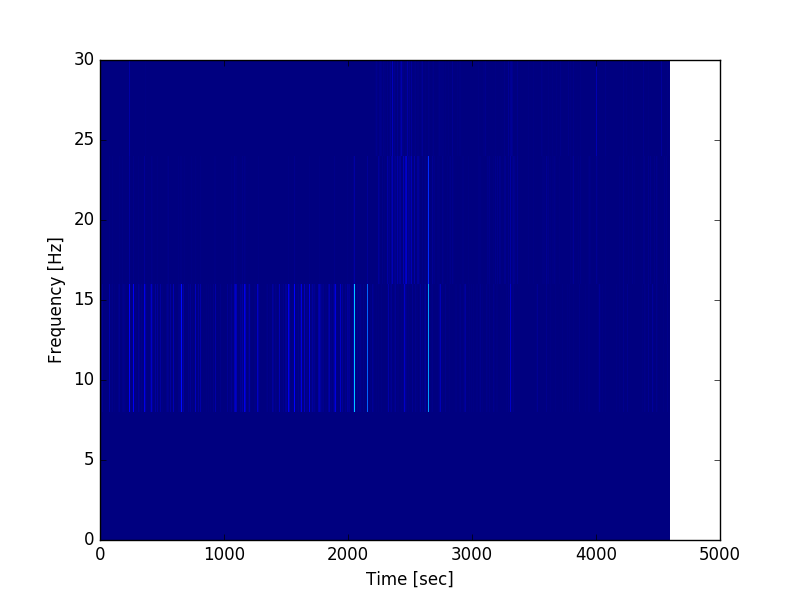
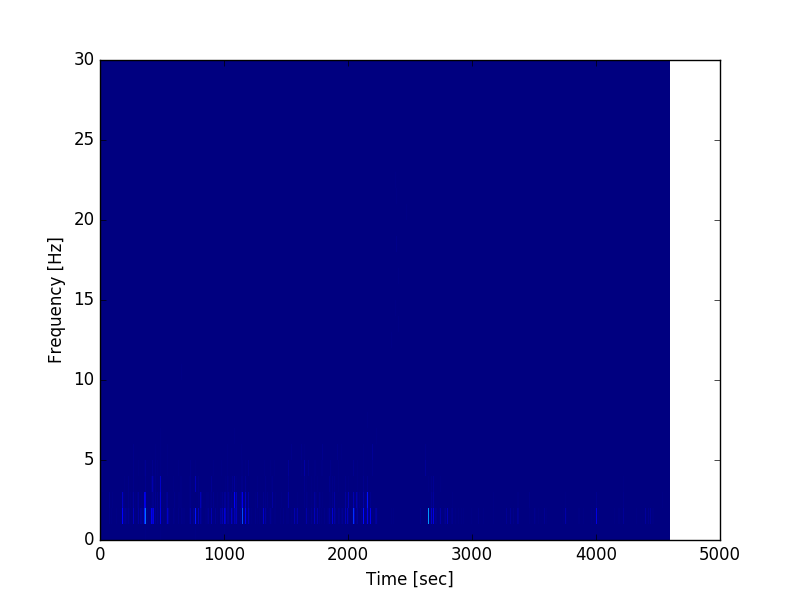
improved receiving data slightly. data is now sent at realistic sampling rate.

diff --git a/python_scripts/receive_stream.py b/python_scripts/receive_stream.py
@@ -6,7 +6,7 @@ import pdb
 # 1 min of data (srate * 60 sec), this is the window on which the band
 # frewuencies are calculated on
 winsize = 12300
-overlap = 512 # 2.5 sec
+overlap = 410 # 2 sec
 srate = 205
 
 # first resolve an EEG stream on the lab network
@@ -15,10 +15,7 @@ streams = resolve_stream('type', 'EEG')
 # create a new inlet to read from the stream
 inlet = StreamInlet(streams[0])
 
-# data = np.zeros(32, winsize + overlap * 2)
 data = []
-# The counter tracks how many new samples have been added to the data list
-counter = 0
 bandlist = []
 
 print("pull samples...")
@@ -27,15 +24,14 @@ while True:
     # interested in it)
     sample = inlet.pull_sample()
 
+    if len(data)%1000 == 0:
+        print("new 1000 samples...")
+
     # build a list with all incoming channel columns
     data.append(sample[0])
-    counter += 1
 
-    # check if 410 (2 sec) new sample arrays have been added to data
-    if counter == 410:
-        if len(data) >= winsize + counter:
-            # delete first 2 seconds of incoming data
-            del data[0:counter]
+    # Wait until the window is large enough to calculate good bandmat
+    if len(data) == winsize:
         arr = np.array(data)
 
         # data was a list of rows and each row contained the nect sample for
@@ -46,3 +42,6 @@ while True:
         bandmat,t,f = sigproc.bandpower_relband(arr, 'all', srate, arr.shape[0], overlap=0, doPow=True)
         bandlist.append(bandmat)
         print bandmat
+
+        # delete first 2 seconds of incoming data
+        del data[0:overlap]

diff --git a/python_scripts/VP_data_plotting.py b/python_scripts/VP_data_plotting.py
@@ -63,8 +63,8 @@ if doPlot:
 
 if doSpectro:
     print 'Spectrogram...'
-    for i in range(32):
-        f, t, Sxx = signal.spectrogram(data[i], 2048)
+    for i in range(2):
+        f, t, Sxx = signal.spectrogram(data[i], 2048, nperseg=2048)
         plt.pcolormesh(t, f, Sxx)
         plt.ylabel('Frequency [Hz]')
         plt.xlabel('Time [sec]')

diff --git a/python_scripts/online_rel_bands.py b/python_scripts/online_rel_bands.py
@@ -22,4 +22,5 @@ print 'sending data...'
 # push out every sample individually
 for i in range(data.shape[1]):
     outlet.push_sample(data[:,i].tolist())
-    time.sleep(0.05)
+    # adjust sleep time to srate of 205
+    time.sleep(0.005)
